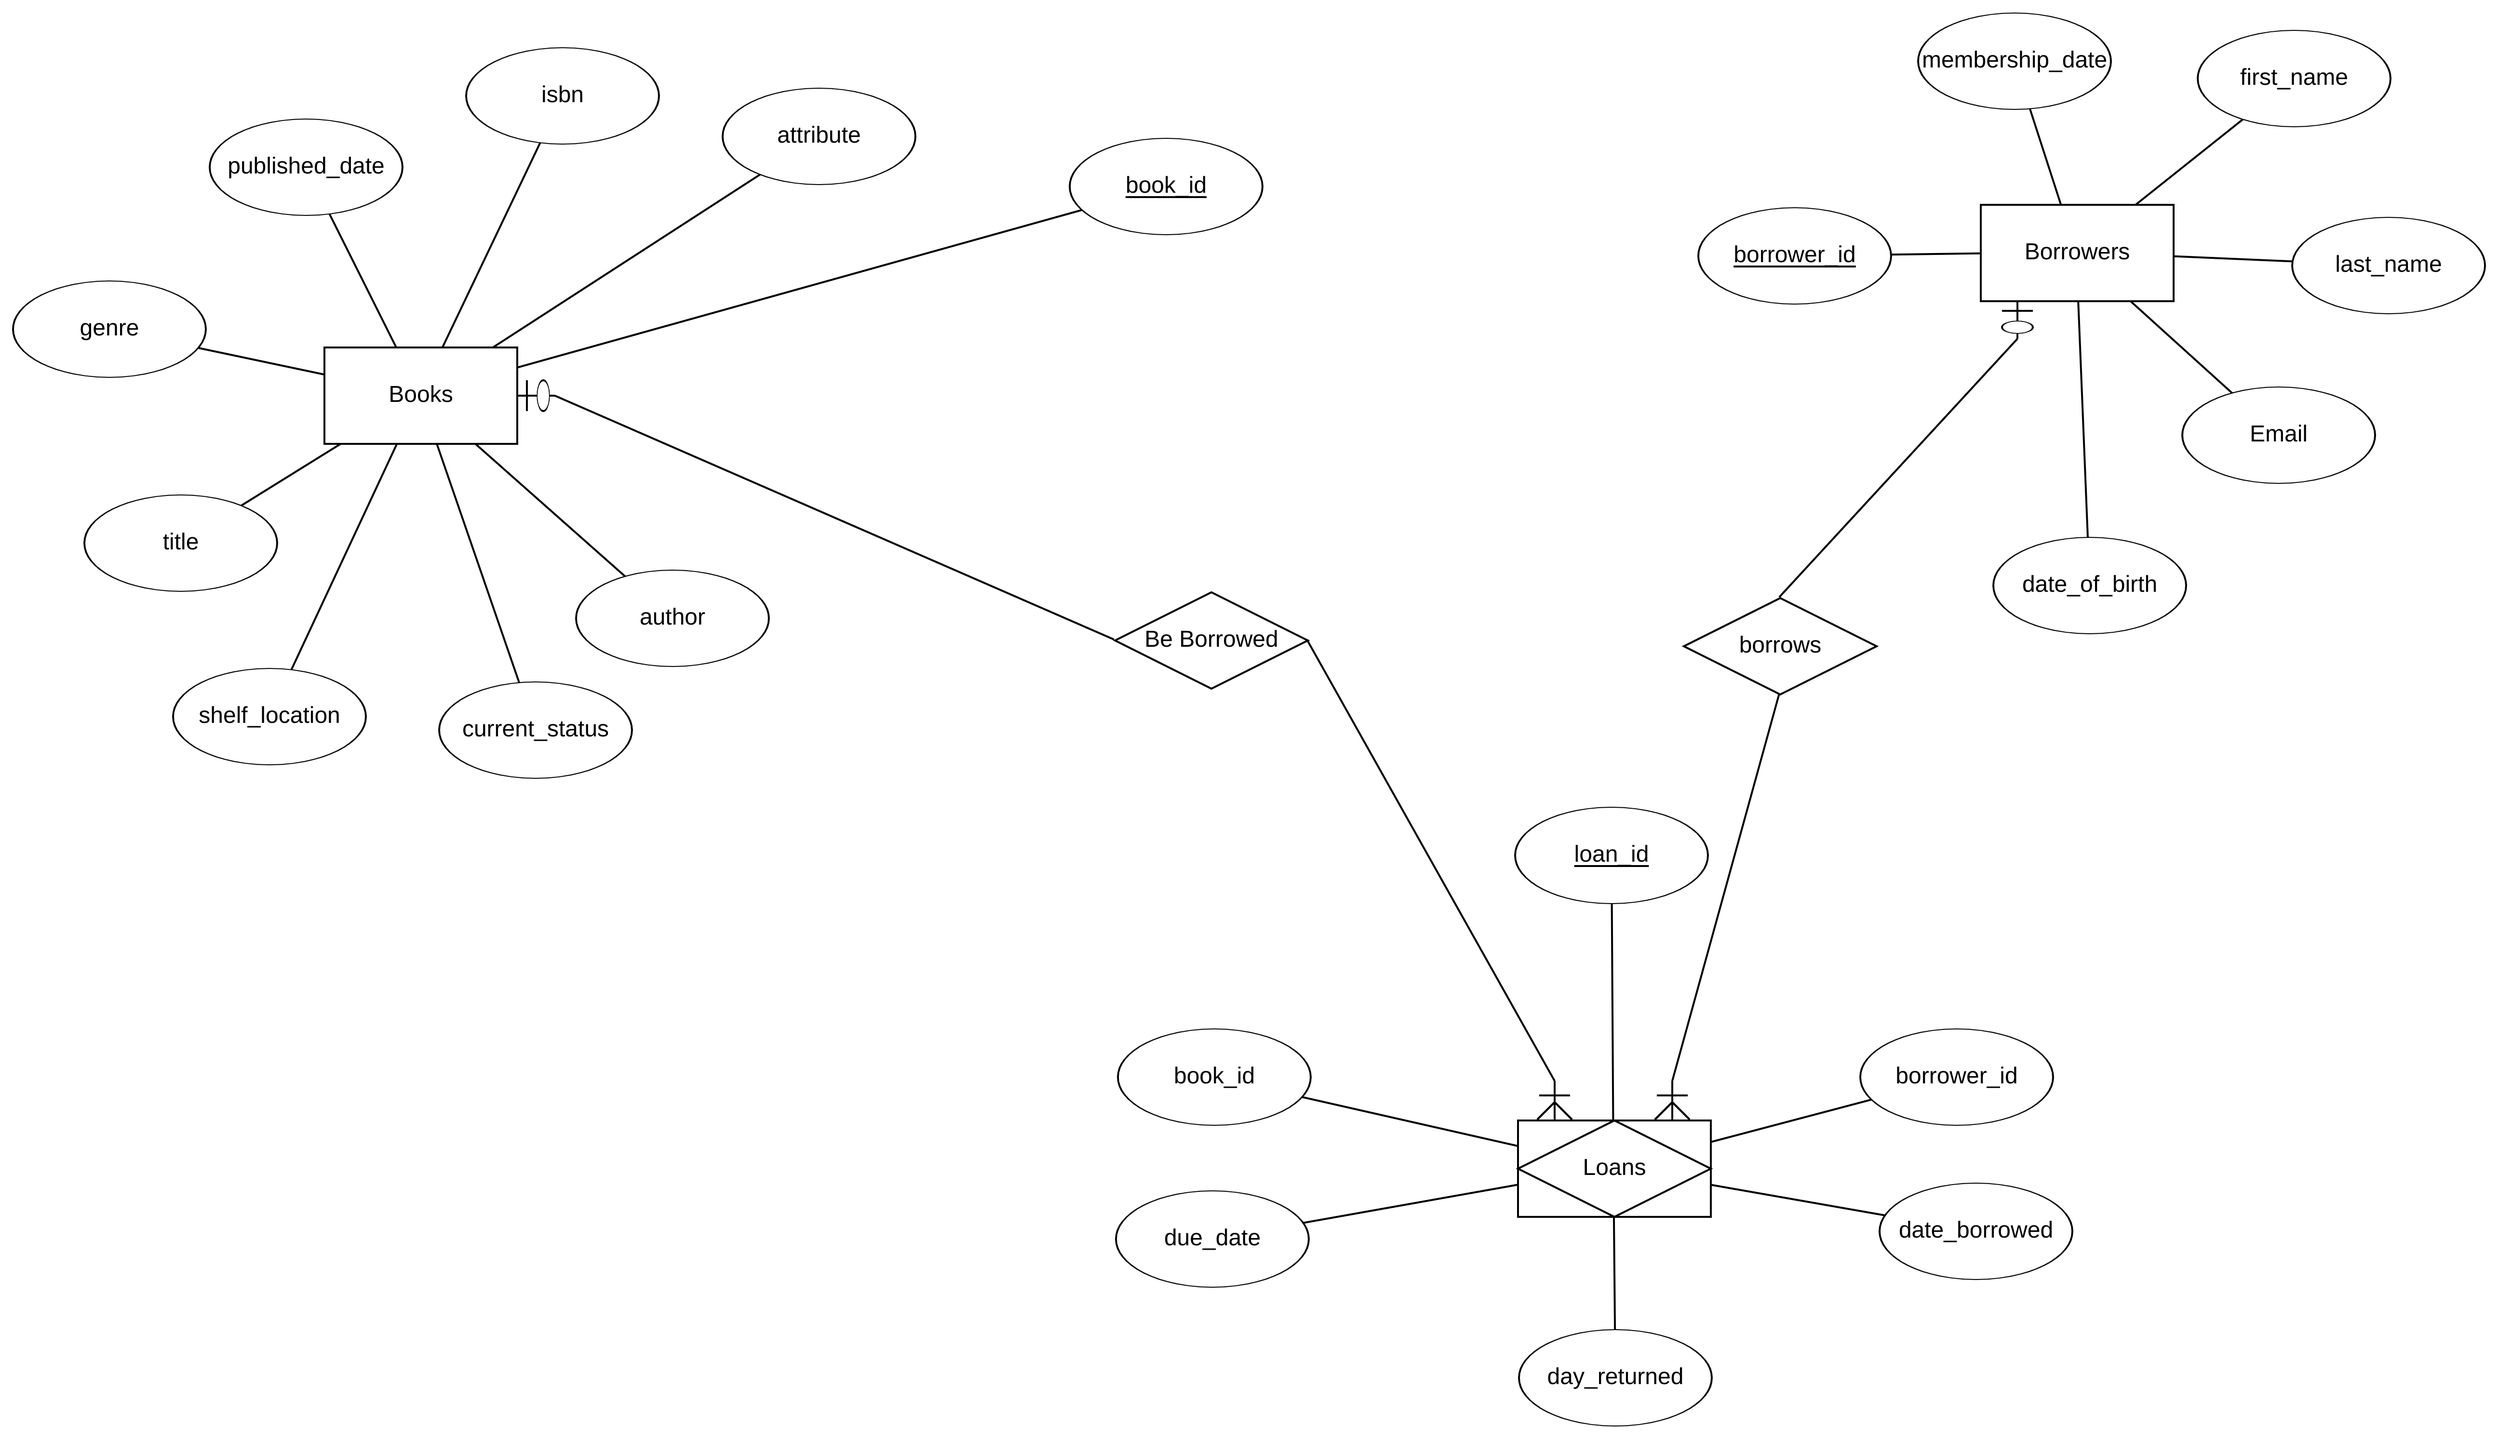
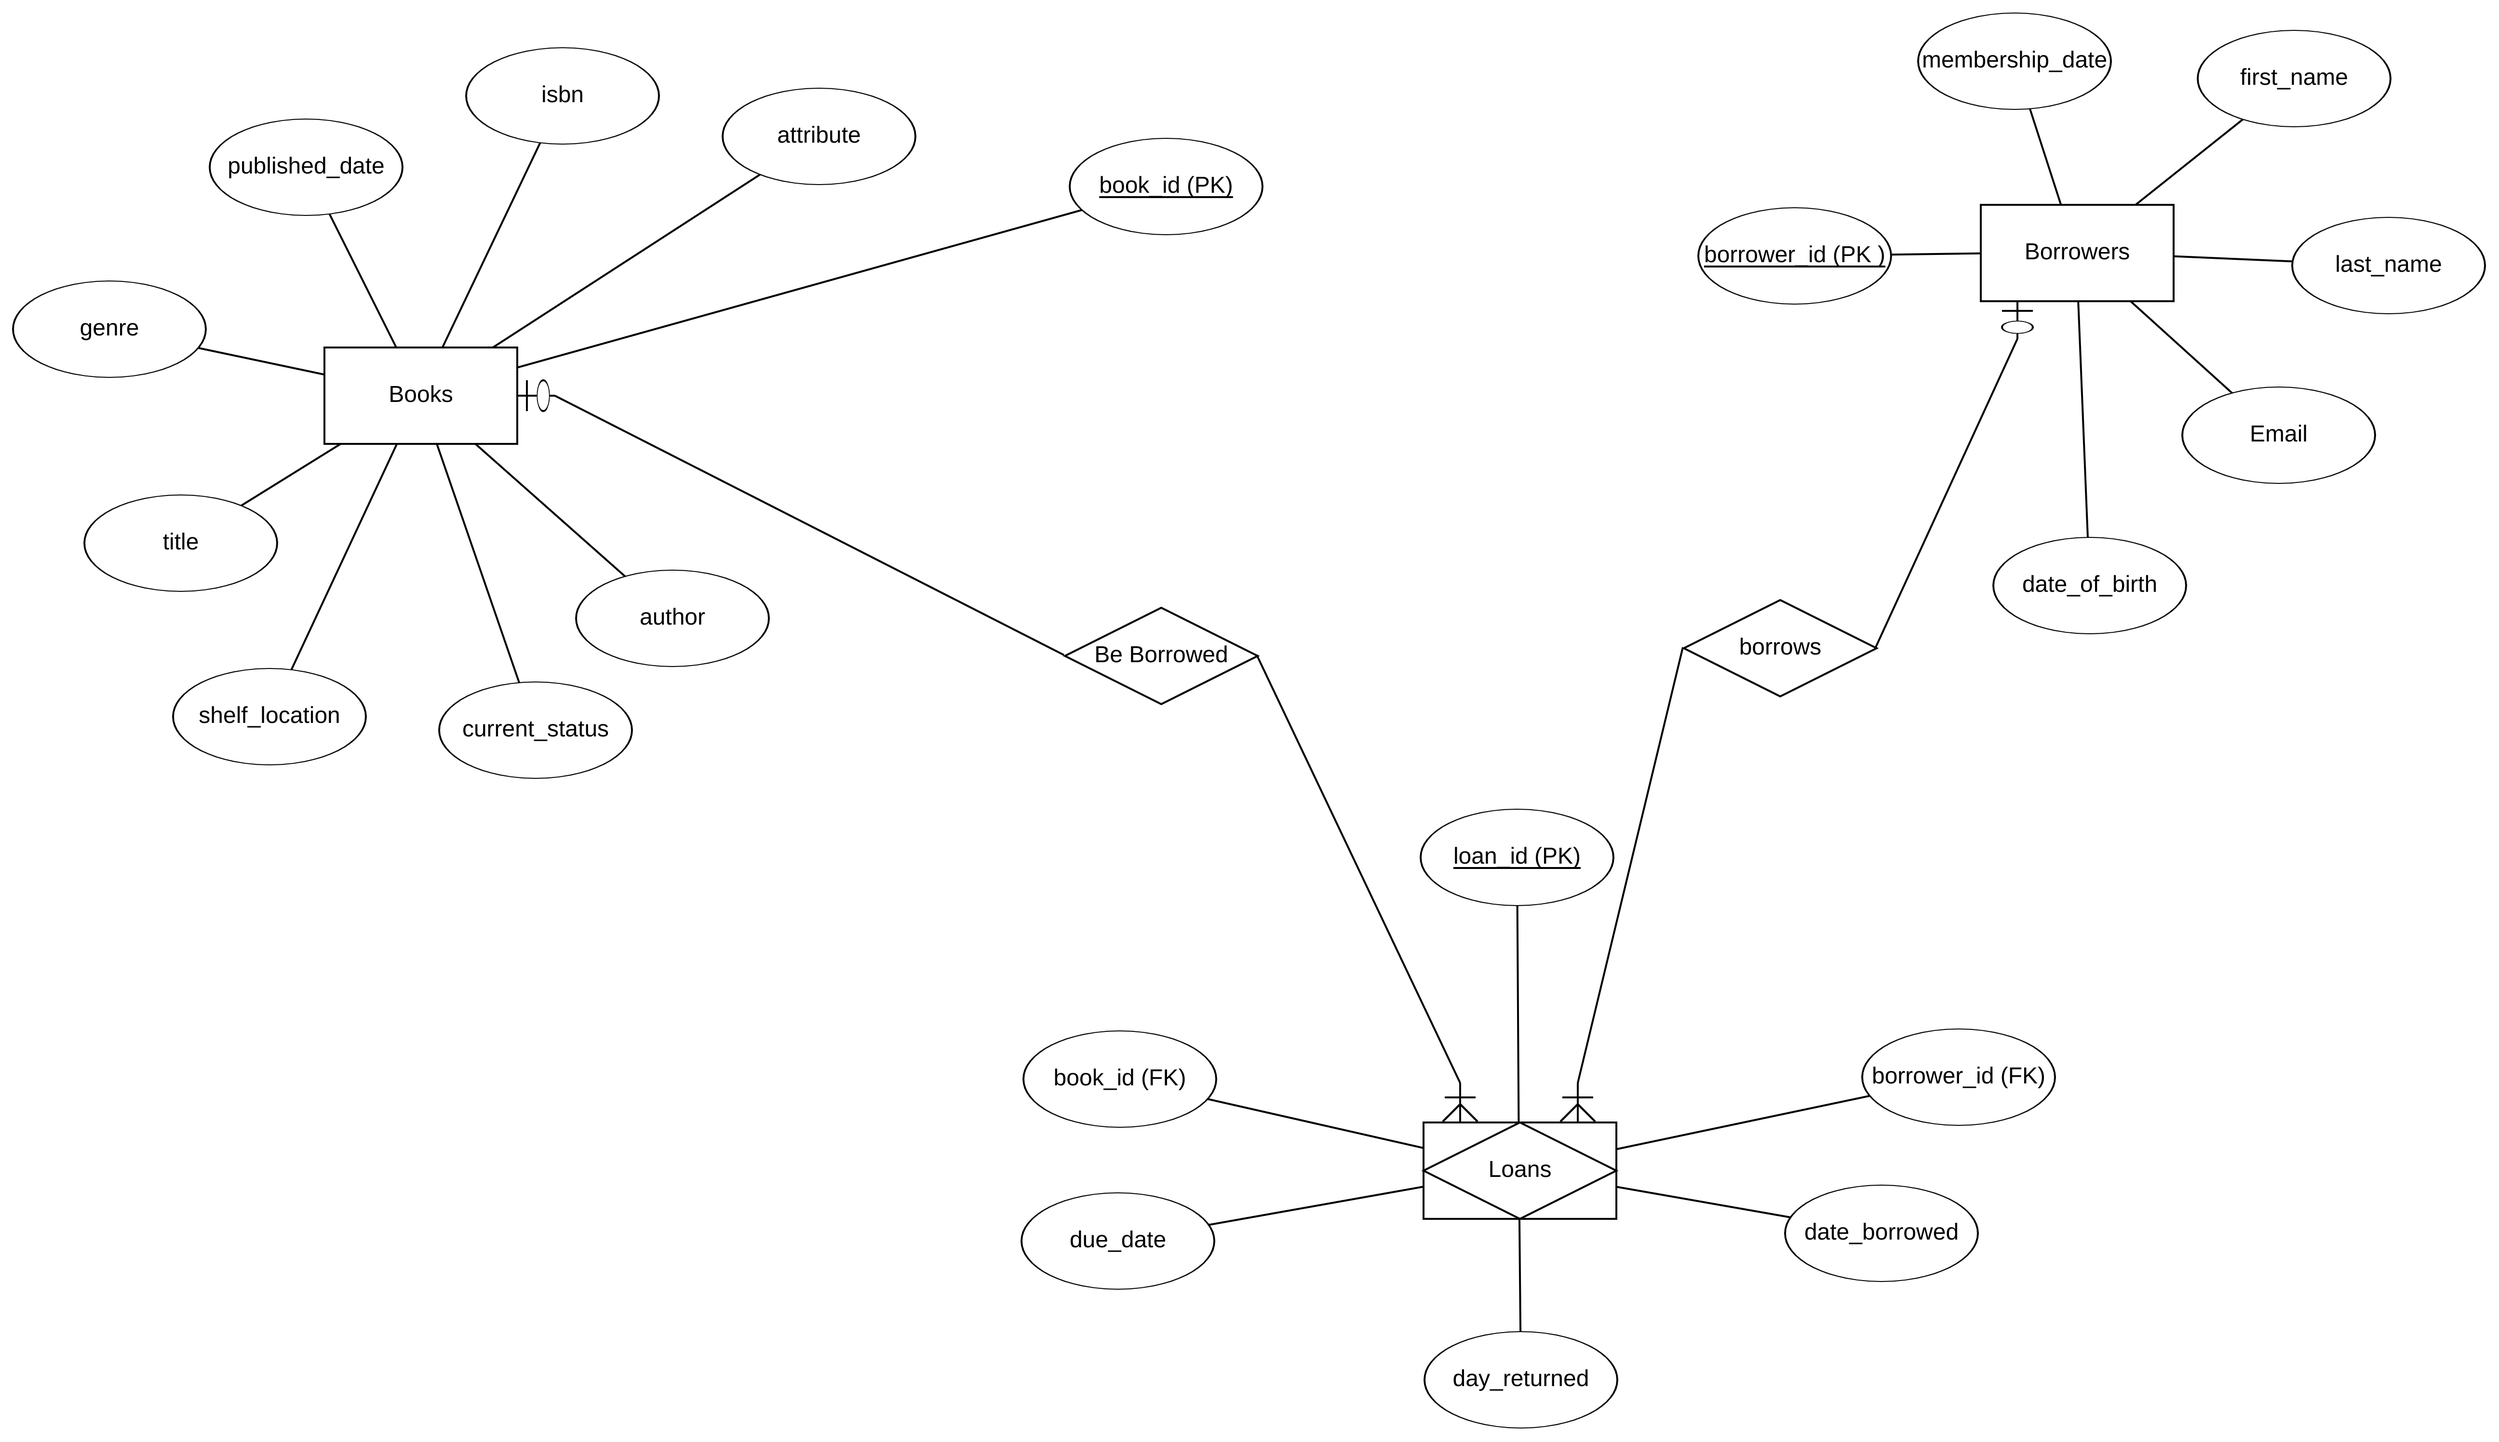
feat: add PK and FK to primary keys and foreign keys

diff --git a/README.md b/README.md
@@ -4,8 +4,7 @@ A database for managing library business created using Microsoft SQL Server.
 
 ## Entity Relations Diagram
 
-![library_management_system_erd1](https://github.com/moustf/LibraryManagementSystem/assets/77394697/1cc39e89-bd53-4ff9-baf7-90680537cd11)
-
+![library_management_system_erd1](https://github.com/moustf/LibraryManagementSystem/assets/77394697/e85d2fac-df73-46a5-8799-2100310d8fd7)
 ---
 
-![library_management_system_erd2](https://github.com/moustf/LibraryManagementSystem/assets/77394697/6eb1e6b7-482d-4577-af6b-733cf2788d23)
+![library_management_system_erd2](https://github.com/moustf/LibraryManagementSystem/assets/77394697/c8a01346-199b-462b-90f2-cb36ba32354b)
